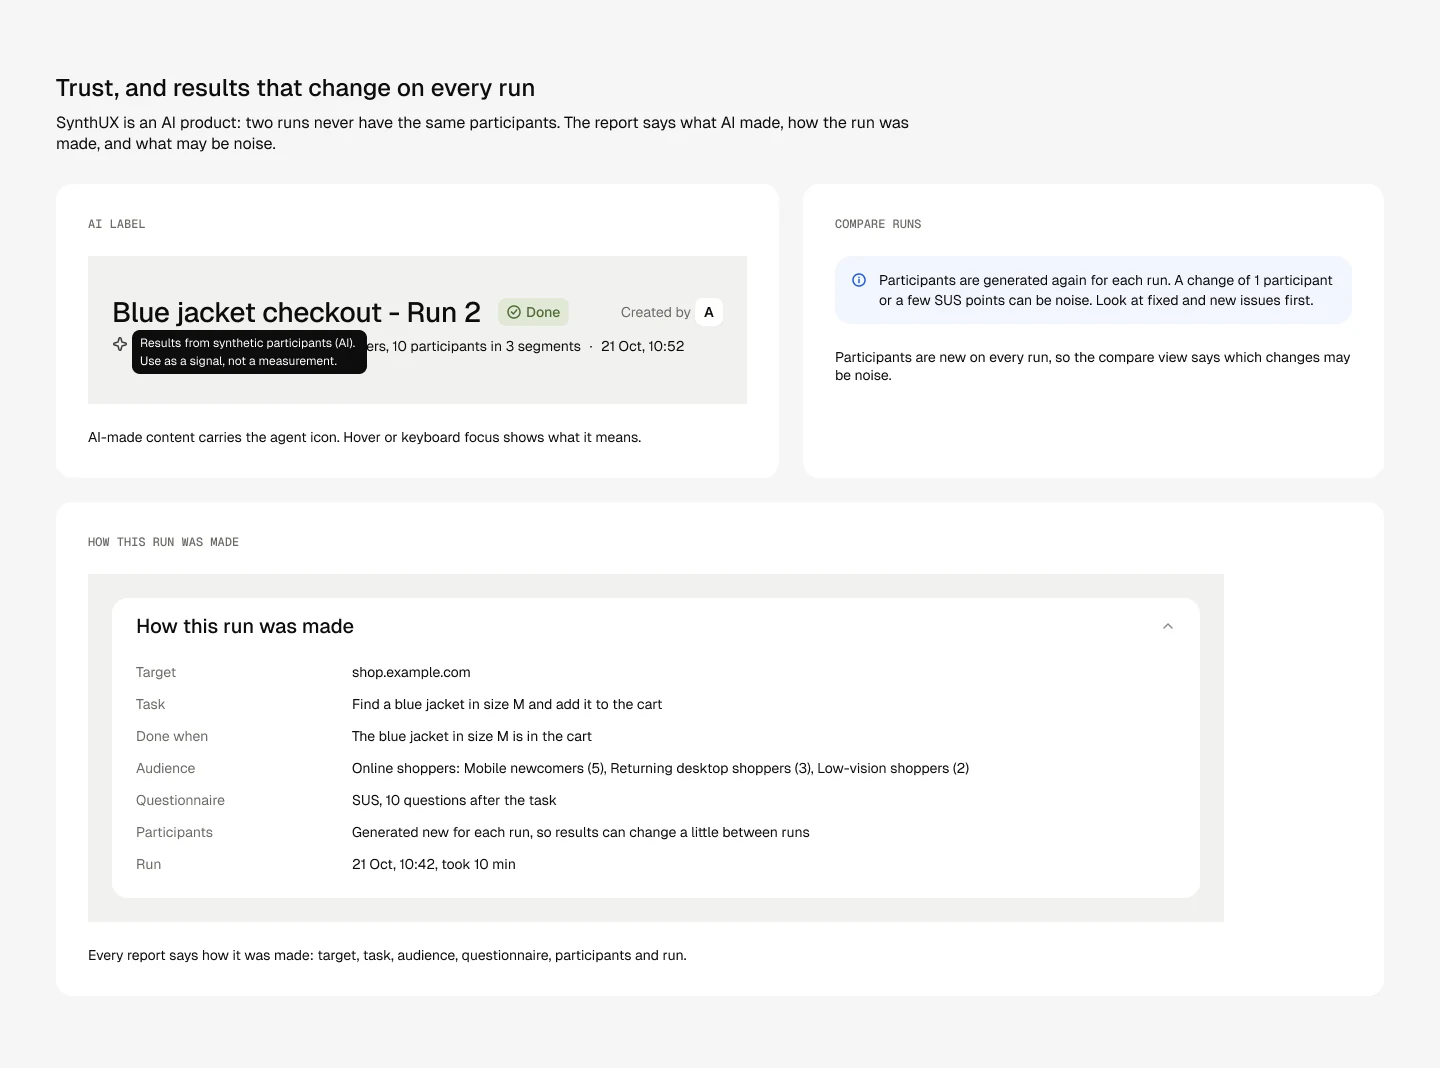
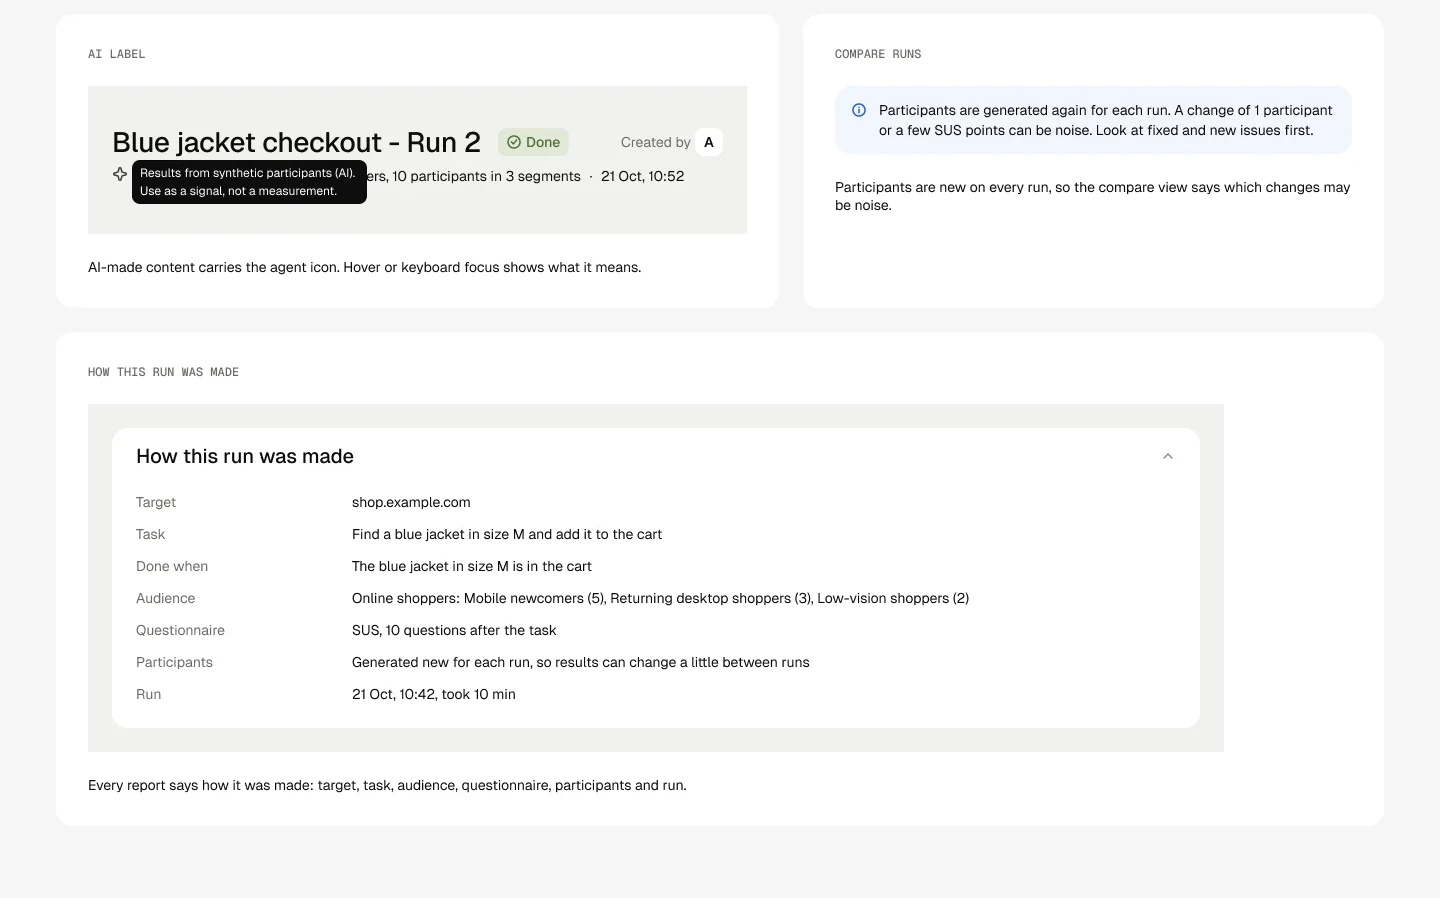
Case 1: bold Day labels, drop the AI cost line, trust image without its heading
Claude-Session: https://claude.ai/code/session_01FZMfudEnk7paNDx6kayYNK

diff --git a/app/src/pages/synthux/SynthuxEndToEndPage.tsx b/app/src/pages/synthux/SynthuxEndToEndPage.tsx
@@ -63,13 +63,13 @@ export const SynthuxEndToEndPage = () => (
     <CaseSection label="Process" title="One step, one Figma page, one review">
       <CaseText>
         <ol>
-          <li>Day 1: concept brief and benchmark.</li>
-          <li>Day 4: design tokens in Figma and the design system repo.</li>
-          <li>Days 9 to 10: 10 wireframe steps.</li>
-          <li>Days 15 to 17: core design system components.</li>
-          <li>Days 18 to 32: hi-fi in 9 steps.</li>
-          <li>Days 32 to 34: responsive layouts and the skeleton loading state.</li>
-          <li>Day 33: the 9 dev specs in the repo.</li>
+          <li><strong>Day 1:</strong> concept brief and benchmark.</li>
+          <li><strong>Day 4:</strong> design tokens in Figma and the design system repo.</li>
+          <li><strong>Days 9 to 10:</strong> 10 wireframe steps.</li>
+          <li><strong>Days 15 to 17:</strong> core design system components.</li>
+          <li><strong>Days 18 to 32:</strong> hi-fi in 9 steps.</li>
+          <li><strong>Days 32 to 34:</strong> responsive layouts and the skeleton loading state.</li>
+          <li><strong>Day 33:</strong> the 9 dev specs in the repo.</li>
         </ol>
       </CaseText>
       <CompareSlider
@@ -159,15 +159,14 @@ export const SynthuxEndToEndPage = () => (
         <p>
           Trust is a design decision. An agent icon marks AI-made content, with
           details in a keyboard-friendly tooltip. “How this run was made” lists
-          the model, settings and audience. The cost: the disclosure is one step
-          away, and its legal check is still open.
+          the model, settings and audience.
         </p>
       </CaseText>
       <CaseFigure
         src={trustImg}
         alt="Three approved screens: the agent icon tooltip, the compare banner about noise between runs, and the How this run was made section"
         width={1440}
-        height={1068}
+        height={898}
         caption="Agent icon tooltip, compare banner, “How this run was made”."
       />
     </CaseSection>
